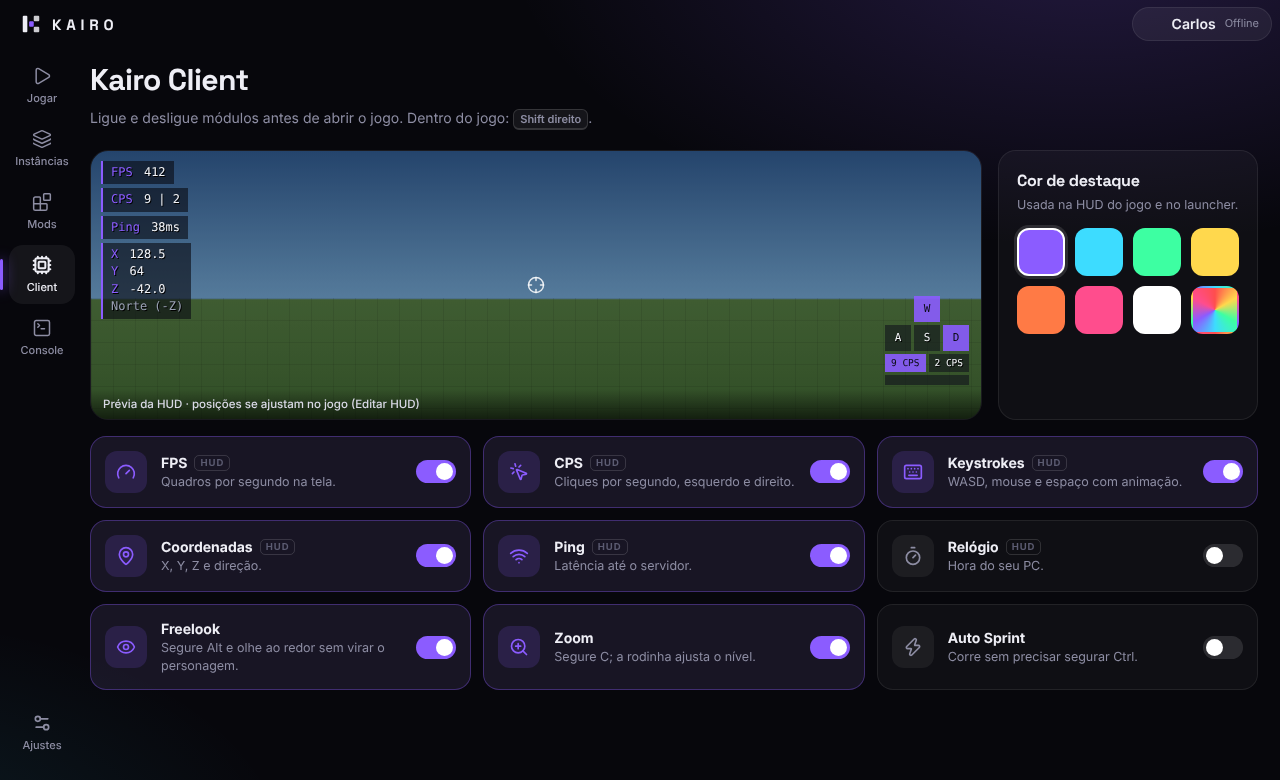
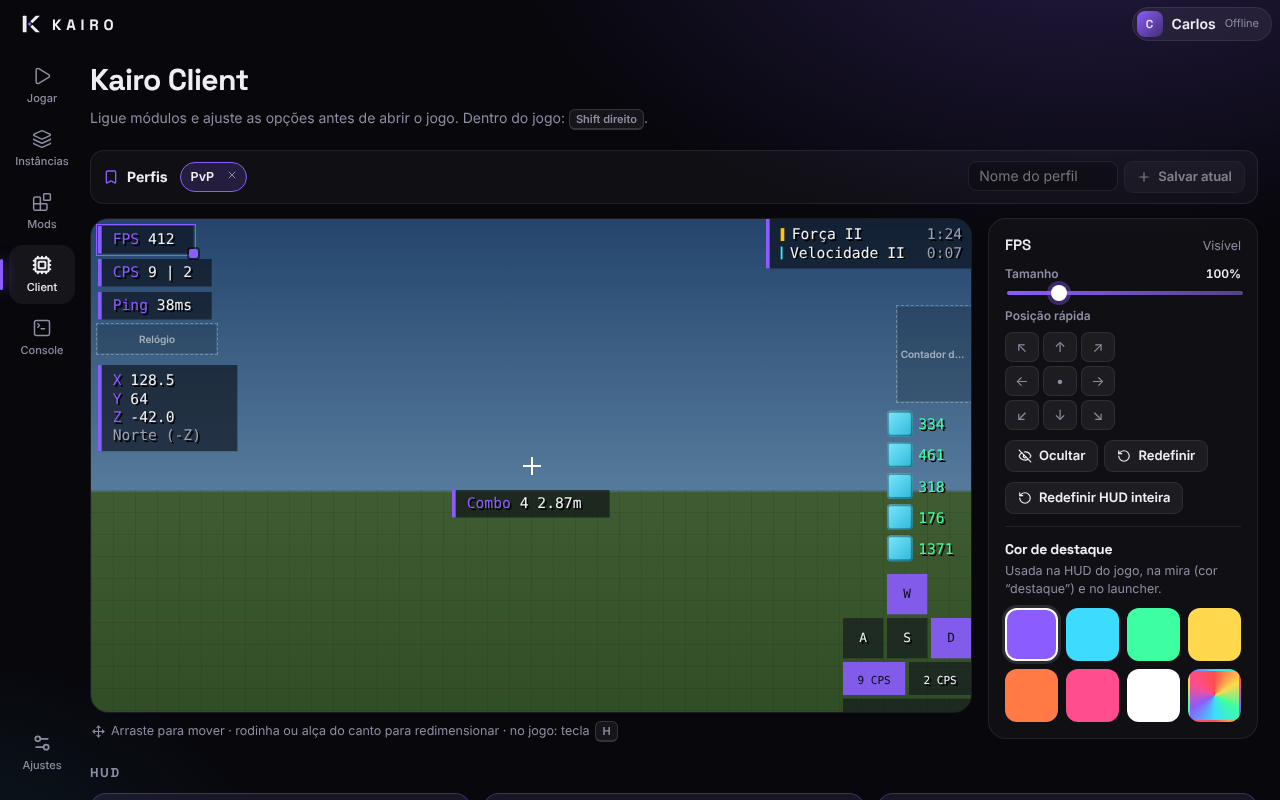
README para usuários + guia de desenvolvimento

diff --git a/launcher/src/components/HudLayoutEditor.tsx b/launcher/src/components/HudLayoutEditor.tsx
@@ -62,7 +62,7 @@ function specs(opt: (id: string, key: string) => OptionValue | undefined): Recor
       ),
     },
     armor: {
-      w: armorH ? armorN * 48 : 46, h: armorH ? 17 : armorN * 17, def: { rx: 0, ry: 0.62 },
+      w: armorH ? armorN * 48 : 46, h: armorH ? 17 : armorN * 17, def: { rx: 1, ry: 0.56 },
       render: () => (
         <div className={`hl-armor ${armorH ? "row" : ""}`}>
           {[92, 78, 64, 41, 88].slice(0, armorN).map((p, i) => (
@@ -72,7 +72,7 @@ function specs(opt: (id: string, key: string) => OptionValue | undefined): Recor
       ),
     },
     items: {
-      w: 40, h: 51, def: { rx: 1, ry: 0.45 },
+      w: 40, h: 51, def: { rx: 1, ry: 0.22 },
       render: () => (
         <div className="hl-armor items">
           {[["#3f9e8a", 16], ["#f2c94c", 12], ["#e0557a", 7]].map(([c, n], i) => (

diff --git a/mod/src/main/java/gg/kairo/module/impl/ItemCounterModule.java b/mod/src/main/java/gg/kairo/module/impl/ItemCounterModule.java
@@ -26,7 +26,7 @@ public final class ItemCounterModule extends HudModule {
 
 	public ItemCounterModule() {
 		super("items", "Contador de itens", "Pérolas, maçãs douradas, poções, flechas e totens no inventário.", false, 4, 310);
-		defaultAnchor(1.0, 0.45);
+		defaultAnchor(1.0, 0.22);
 	}
 
 	private record Entry(ItemStack icon, int count) {}

diff --git a/mod/src/main/java/gg/kairo/module/impl/ArmorModule.java b/mod/src/main/java/gg/kairo/module/impl/ArmorModule.java
@@ -27,7 +27,7 @@ public final class ArmorModule extends HudModule {
 
 	public ArmorModule() {
 		super("armor", "Armadura", "Peças vestidas e item na mão com a durabilidade.", true, 4, 210);
-		defaultAnchor(0.0, 0.62);
+		defaultAnchor(1.0, 0.56);
 	}
 
 	private List<ItemStack> stacks(Minecraft mc) {

diff --git a/README.md b/README.md
@@ -1,153 +1,99 @@
 <p align="center"><img src="branding/kairo-logo.png" alt="Kairo PvP Client" width="420"></p>
 
-# Kairo
+<p align="center">
+  <b>Launcher de Minecraft com client próprio, focado em PvP.</b><br>
+  Rápido, bonito e sem complicação — instala o jogo, o Java e os mods sozinho.
+</p>
 
-Launcher de Minecraft com client próprio, focado em PvP.
+<p align="center">
+  <a href="https://github.com/CarlosBR177/Kairo-Launcher/releases/latest"><b>⬇ Baixar para Windows</b></a>
+</p>
 
-![Tela inicial](docs/inicio.png)
+![Tela inicial do Kairo](docs/inicio.png)
 
-São duas partes:
+## O que tem
 
-| Pasta | O que é | Tecnologia |
-|---|---|---|
-| `launcher/` | O launcher (interface, contas, instalação, mods, instalador .exe) | Tauri 2 + Rust + React |
-| `launcher/core/` | Núcleo do launcher, sem interface (testável sozinho) | Rust |
-| `mod/` | **Kairo Client**: mod com HUD, CPS, FPS, keystrokes, freelook, zoom… | Fabric · Stonecutter · MC 1.21.1–26.3 |
-| `branding/` | Logo, símbolo e ícone em SVG/PNG | — |
+**No launcher**
+- **Instala tudo sozinho:** Minecraft, Fabric e o Java certo para cada versão. É só criar uma instância e clicar em Jogar.
+- **Instâncias separadas:** cada uma com seus próprios mods, mundos e configurações.
+- **Mods do Modrinth** direto no launcher: busque, instale (com dependências), ligue e desligue.
+- **Pacote de desempenho** automático (Sodium, Lithium, FerriteCore e outros) para ganhar FPS sem configurar nada.
+- **Servidores favoritos** na tela inicial, com ping ao vivo e jogadores online. Um clique e você já entra.
+- **Mostra no Discord** o que você está jogando.
+- **Se atualiza sozinho** quando sai versão nova.
 
-## O que já faz
+**No jogo (Kairo Client)**
+- **HUD:** FPS, CPS, keystrokes, coordenadas, ping, relógio, efeitos de poção, armadura com durabilidade, contador de itens (pérolas, maçãs, poções, flechas, totens) e combo/distância do último hit.
+- **Monte sua HUD do seu jeito:** arraste cada elemento para onde quiser e mude o tamanho — no jogo (tecla **H**) ou no launcher.
+- **Mira personalizada:** estilo, tamanho, espaço, espessura e cor.
+- **Visual:** fogo mais baixo, tamanho e posição do item na mão (escudo mais baixo), brilho máximo, partículas de hit.
+- **Movimento e câmera:** freelook, zoom suave, auto sprint e toggle sneak.
+- **Perfis:** salve combinações de módulos (PvP, Survival, Gravação…) e troque com um clique.
+- **Regras por servidor:** desligue sozinho os módulos que um servidor não permite.
 
-**Launcher**
-- Login **Microsoft** (código de dispositivo, sem ver a senha) e contas **offline**.
-- Instâncias separadas (mods, mundos e configs próprios), com capas geradas.
-- Instala sozinho: Minecraft, Fabric, bibliotecas, assets **e o Java certo** (o mesmo runtime do launcher oficial).
-- Mods pelo **Modrinth** (busca, instala com dependências, liga/desliga, remove).
-- **Pacote de desempenho** automático: Sodium, Lithium, FerriteCore, ImmediatelyFast, EntityCulling, ModernFix.
-- Flags de JVM ajustadas para cliente (G1 otimizado ou ZGC; compact object headers no Java 25).
-- Aba **Client**: liga/desliga os módulos, ajusta as opções de cada um (editor de mira com prévia), **monta o layout da HUD arrastando e redimensionando na prévia** e troca a cor **antes** de abrir o jogo.
-- **Perfis de HUD** (PvP, Survival, Gravação…): salve quais módulos ficam ligados e troque com um clique, no launcher ou no jogo.
-- **Regras por servidor**: escolha módulos que são desligados sozinhos em servidores que os proíbem (e voltam ao sair).
-- **Servidores favoritos** na tela inicial com ping ao vivo, jogadores online, MOTD e ícone (resolve SRV como o jogo).
-- **Discord Rich Presence**: instância, versão e servidor no seu perfil.
-- **Atualização automática** pelas Releases do GitHub (assinada).
-- Quick Play (entrar direto num servidor), console com filtro de erros, tempo jogado.
-- Instalador NSIS em português, por usuário (não pede administrador).
+![Aba Client: editor da HUD](docs/client.png)
 
-**Kairo Client (mod)**
-- HUD: FPS, CPS (esq. | dir.), Keystrokes animado, Coordenadas + direção, Ping, Relógio.
-- PvP: **Combo e distância do último hit** (só mostra), **Efeitos de poção** com tempo, **Armadura** com durabilidade, **Contador de itens** (pérolas, maçãs, poções, flechas, totens), **Mira personalizada**, **Partículas de hit**.
-- Visual: **Fogo baixo**, **Item na mão** (tamanho/posição, escudo baixo), **Brilho máximo**.
-- Freelook (segure **Alt**), Zoom suave (segure **C**, rodinha ajusta), Auto Sprint, **Toggle Sneak**.
-- Menu no jogo: **Shift direito** (com troca de perfil).
-- **Editor de HUD** (tecla **H**, ou "Editar HUD" no menu): arraste para mover, rodinha ou alça do canto para mudar o tamanho (50%–300%), posições rápidas (cantos, bordas, centro), ocultar/mostrar e redefinir. As posições são relativas à tela, então o layout fica igual em qualquer resolução.
-- Nada que dê vantagem injusta: sem reach, autoclicker, hitbox ou ver através de blocos.
-- Config em `config/kairo.json` — o launcher lê e grava o mesmo arquivo.
+> **Jogo limpo:** o Kairo não tem nada que dê vantagem injusta — sem reach, autoclicker, hitbox ou ver através de blocos. Mesmo assim, cada servidor tem suas regras; na dúvida, confira antes de jogar.
 
-![Aba Client](docs/client.png)
+## Instalar
 
-## Gerar o instalador (jeito fácil: GitHub)
+1. Baixe o **`Kairo Launcher_x.y.z_x64-setup.exe`** na página de [Releases](https://github.com/CarlosBR177/Kairo-Launcher/releases/latest).
+2. Abra o instalador. Ele não pede senha de administrador.
+3. Se o Windows mostrar **"O Windows protegeu o computador"**, clique em **Mais informações → Executar assim mesmo**. Isso aparece porque o instalador ainda não tem assinatura digital paga; não é vírus.
+4. Abra o **Kairo Launcher** pelo menu Iniciar.
 
-1. Suba esta pasta para um repositório no GitHub.
-2. *Actions* → **Build Kairo** → *Run workflow*.
-3. Baixe o artefato **Kairo-Launcher-Windows**: tem o `Kairo Launcher_0.1.0_x64-setup.exe`.
+Requisitos: Windows 10 ou 11 (64 bits). Não precisa instalar Java — o launcher baixa sozinho.
 
-## Gerar no seu PC (Windows)
+## Primeiros passos
 
-Pré-requisitos: [Rust](https://rustup.rs), [Node 22+](https://nodejs.org), [JDK 25](https://adoptium.net) (o Gradle baixa o JDK 21 das 1.21.x sozinho) e o *Build Tools do Visual Studio* (C++). O WebView2 já vem no Windows 10/11.
+1. **Entre na sua conta:** clique em **Entrar** no canto superior direito.
+   - **Conta Microsoft** (a do Minecraft original): o launcher mostra um código; abra o link, digite o código e faça login no site da Microsoft. O launcher nunca vê sua senha.
+   - **Conta offline:** só um nome, para jogar singleplayer ou em servidores que aceitam contas não originais.
+2. **Crie uma instância:** escolha a versão do Minecraft e deixe **Fabric** marcado para usar o Kairo Client.
+3. Clique em **Jogar**. Na primeira vez ele baixa o jogo e o Java, o que leva alguns minutos.
 
-```powershell
-# 1) mod (gera um jar por versão do Minecraft)
-cd mod
-.\gradlew.bat build
-copy versions\*\build\libs\kairo-client-*.jar ..\launcher\src-tauri\resources\
-del ..\launcher\src-tauri\resources\*-sources.jar
+## Atalhos no jogo
 
-# 2) launcher
-cd ..\launcher
-npm install
-npm run tauri dev          # abre em modo desenvolvimento
-npm run tauri build        # gera o .exe em src-tauri\target\release\bundle\nsis\
-```
+| Tecla | O que faz |
+|---|---|
+| **Shift direito** | Menu do Kairo (ligar/desligar módulos, trocar perfil) |
+| **H** | Editor de HUD (mover e redimensionar) |
+| **Alt** (segurar) | Freelook — olhar ao redor sem virar o personagem |
+| **C** (segurar) | Zoom — a rodinha do mouse ajusta |
 
-Só a interface, no navegador (dados de exemplo, sem Rust): `npm run dev` → http://localhost:1420
+Todas as teclas podem ser trocadas em **Opções → Controles → Kairo Client**.
 
-Testar o mod direto, sem o launcher: `cd mod && .\gradlew.bat :26.3:runClient` (ou `:1.21.8:runClient` etc.).
+**Editor de HUD:** clique num elemento para selecionar, arraste para mover e use a rodinha (ou a alça no canto) para mudar o tamanho. A barra embaixo tem posições rápidas (cantos, centro), ocultar e redefinir.
 
-## Várias versões do Minecraft (Stonecutter)
+## Versões do Minecraft
 
-O mod usa [Stonecutter](https://stonecutter.kikugie.dev/): um código só, e um jar por versão.
+O launcher roda qualquer versão do Minecraft. O **Kairo Client** (HUD e módulos) funciona em:
 
-| Jar | Carrega em | Loom | Java |
-|---|---|---|---|
-| `kairo-client-0.1.0+1.21.1.jar` | 1.21 – 1.21.1 | remap (mapeamentos Mojang) | 21 |
-| `kairo-client-0.1.0+1.21.4.jar` | 1.21.4 | remap | 21 |
-| `kairo-client-0.1.0+1.21.8.jar` | 1.21.6 – 1.21.8 | remap | 21 |
-| `kairo-client-0.1.0+1.21.11.jar` | 1.21.11 | remap | 21 |
-| `kairo-client-0.1.0+26.3.jar` | 26.3.x | sem ofuscação | 25 |
+**1.21.1 · 1.21.4 · 1.21.6–1.21.8 · 1.21.11 · 26.3**
 
-- O código-fonte fica escrito para a **26.3** (versão "ativa"). Trechos que mudam entre versões usam comentários do Stonecutter:
-  ```java
-  //? if >=26.1 {
-  raw.text(font, s, x, y, color, shadow);
-  //?} else {
-  /*raw.drawString(font, s, x, y, color, shadow);
-  *///?}
-  ```
-- Para editar/rodar outra versão na IDE, use a tarefa Gradle **Set active project to 1.21.8** (e volte para 26.3 antes de commitar).
-- As diferenças ficam concentradas em `compat/Gfx.java` (desenho), `compat/Compat.java` (telas, teclas), `KairoClient` (registro de HUD e teclas), nas duas telas e nos mixins de zoom/mira/rolagem.
-- Versões específicas (Fabric API, faixa de versões do jogo) ficam em `mod/versions/<versão>/gradle.properties`.
-- O launcher escolhe o jar pela versão da instância (`kairo_jar_for` em `lib.rs`). Para adicionar uma versão: inclua em `settings.gradle.kts`, crie `versions/<versão>/gradle.properties` e acrescente a linha em `kairo_jar_for` e em `kairoSupports` (`launcher/src/modules.ts`).
+Em outras versões o jogo abre normalmente, só sem os módulos do Kairo.
 
-## Login Microsoft (Client ID do Azure)
+## Dúvidas
 
-Sem isso o launcher funciona só com contas offline. É gratuito, mas a Mojang precisa aprovar:
+**Posso usar meus próprios mods?**
+Sim. Na aba **Mods**, busque no Modrinth ou coloque arquivos `.jar` na pasta da instância (botão de pasta na tela inicial).
 
-1. [portal.azure.com](https://portal.azure.com) → **App registrations** → *New registration*.
-   - Tipo de conta: **Personal Microsoft accounts only**.
-2. Em **Authentication** → *Advanced settings* → **Allow public client flows = Yes** (habilita o device code).
-3. Copie o **Application (client) ID**.
-4. Peça acesso à API do Minecraft no formulário da Mojang: https://aka.ms/mce-reviewappid
-   (até aprovarem, o login termina com a mensagem “Client ID ainda não foi aprovado”).
-5. Compile com a variável: `set KAIRO_MS_CLIENT_ID=seu-client-id` antes do `npm run tauri build`
-   — ou crie o secret `KAIRO_MS_CLIENT_ID` no GitHub para o workflow.
+**Minha conta offline não entra no servidor.**
+Contas offline só entram em servidores com `online-mode=false`. Para servidores normais, use sua conta Microsoft.
 
-O Client ID não é segredo (vai dentro do app), mas é seu: não reutilize o de outros launchers.
+**Onde ficam meus mundos e configurações?**
+Em `%APPDATA%\KairoLauncher\instances\<nome-da-instância>`. O botão de pasta na tela inicial abre direto ali.
 
-## Discord Rich Presence
+**Como desinstalar?**
+Em **Configurações → Aplicativos** do Windows. Seus mundos ficam em `%APPDATA%\KairoLauncher` até você apagar a pasta.
 
-1. [discord.com/developers/applications](https://discord.com/developers/applications) → *New Application* → nome **Kairo**.
-2. Copie o **Application ID**.
-3. Em *Rich Presence → Art Assets*, envie `branding/kairo-icon-1024.png` com o nome **kairo**.
-4. Compile com `set KAIRO_DISCORD_APP_ID=seu-id` — ou crie o secret `KAIRO_DISCORD_APP_ID` no GitHub.
+**O jogo fechou com erro.**
+Abra a aba **Console** do launcher, copie as linhas em vermelho e [abra uma issue](https://github.com/CarlosBR177/Kairo-Launcher/issues) com elas.
 
-Sem o ID, a opção aparece desativada em Ajustes e nada é enviado ao Discord.
+## Aviso
 
-## Atualização automática
+O Kairo não é um produto oficial do Minecraft e não tem ligação com a Mojang ou a Microsoft. O jogo é baixado direto dos servidores oficiais da Mojang e nunca é distribuído modificado, respeitando o [EULA do Minecraft](https://www.minecraft.net/eula). Os mods do pacote de desempenho vêm do Modrinth, de seus próprios autores.
 
-O launcher procura `latest.json` na última Release do repositório. Para publicar uma versão:
+---
 
-1. No GitHub, crie os secrets `TAURI_SIGNING_PRIVATE_KEY` (conteúdo de `.secrets/kairo-updater.key`) e `TAURI_SIGNING_PRIVATE_KEY_PASSWORD` (vazio).
-2. Suba a versão em `launcher/src-tauri/tauri.conf.json` e `launcher/package.json` (ex.: `0.2.0`).
-3. `git tag v0.2.0 && git push --tags` → o workflow publica a Release com o instalador assinado.
-
-O workflow troca `SEU_USUARIO/SEU_REPO` no `tauri.conf.json` pelo nome do repositório automaticamente. A chave pública já está no `tauri.conf.json`; **a privada (`.secrets/`) nunca deve ir para o Git** — sem ela não dá para publicar atualizações.
-
-## Onde ficam os dados
-
-`%APPDATA%\KairoLauncher\` → `instances\<id>\` (mods, saves, config), `versions\`, `libraries\`, `assets\`, `runtime\` (Java), `settings.json`, `instances.json`, `accounts.json`.
-
-> `accounts.json` guarda os tokens de sessão em texto. Para uso pessoal tudo bem; para distribuir, migre para o Cofre de Credenciais do Windows (crate `keyring`).
-
-## Limitações conhecidas
-
-- O Kairo Client existe para 1.21.1, 1.21.4, 1.21.6–1.21.8, 1.21.11 e 26.3. Outras versões rodam no launcher, mas sem o mod do Kairo.
-- Contas offline só entram em servidores com `online-mode=false`.
-- O mod ainda não foi compilado nem testado no jogo em nenhuma versão — o primeiro `gradlew build` pode apontar ajustes pequenos de nomes. Os nomes de desenho estão todos em `compat/Gfx.java`, então um nome errado ali se corrige num lugar só. Nas 1.21.x o zoom e a mira usam `require = 0`: se o alvo mudar, eles param de funcionar sem crashar.
-- Os mixins de **Fogo baixo** e **Item na mão** usam `require = 0`: se o nome do método mudar numa versão do jogo, o efeito não aparece, mas o jogo abre normalmente.
-- Opções finas dos módulos (estilo da mira, tamanho do item…) ficam na aba Client do launcher; no jogo, o menu liga/desliga e troca de perfil.
-- Capas, marca do Kairo no tab e nametag própria precisam de um servidor do Kairo e ficaram para depois.
-- As capas e o logo são originais; nenhuma marca da Mojang/Microsoft é usada.
-
-## Licença e EULA
-
-O launcher baixa o jogo direto dos servidores da Mojang e nunca distribui o Minecraft modificado, o que respeita o EULA. Os mods do pacote de desempenho são baixados do Modrinth no momento da instalação.
+Quer compilar o projeto ou contribuir? Veja o [guia de desenvolvimento](docs/DESENVOLVIMENTO.md).

diff --git a/docs/DESENVOLVIMENTO.md b/docs/DESENVOLVIMENTO.md
@@ -1,0 +1,115 @@
+# Kairo — guia de desenvolvimento
+
+Como compilar, publicar versões e configurar as integrações. Para usar o launcher, veja o [README](../README.md).
+
+O projeto tem duas partes:
+
+| Pasta | O que é | Tecnologia |
+|---|---|---|
+| `launcher/` | O launcher (interface, contas, instalação, mods, instalador .exe) | Tauri 2 + Rust + React |
+| `launcher/core/` | Núcleo do launcher, sem interface (testável sozinho) | Rust |
+| `mod/` | **Kairo Client**: mod com HUD, CPS, FPS, keystrokes, freelook, zoom… | Fabric · Stonecutter · MC 1.21.1–26.3 |
+| `branding/` | Logo, símbolo e ícone em SVG/PNG | — |
+
+## Gerar o instalador (jeito fácil: GitHub)
+
+1. Suba esta pasta para um repositório no GitHub.
+2. *Actions* → **Build Kairo** → *Run workflow*.
+3. Baixe o artefato **Kairo-Launcher-Windows**: tem o `Kairo Launcher_0.1.0_x64-setup.exe`.
+
+## Gerar no seu PC (Windows)
+
+Pré-requisitos: [Rust](https://rustup.rs), [Node 22+](https://nodejs.org), [JDK 25](https://adoptium.net) (o Gradle baixa o JDK 21 das 1.21.x sozinho) e o *Build Tools do Visual Studio* (C++). O WebView2 já vem no Windows 10/11.
+
+```powershell
+# 1) mod (gera um jar por versão do Minecraft)
+cd mod
+.\gradlew.bat build
+copy versions\*\build\libs\kairo-client-*.jar ..\launcher\src-tauri\resources\
+del ..\launcher\src-tauri\resources\*-sources.jar
+
+# 2) launcher
+cd ..\launcher
+npm install
+npm run tauri dev          # abre em modo desenvolvimento
+npm run tauri build        # gera o .exe em src-tauri\target\release\bundle\nsis\
+```
+
+Só a interface, no navegador (dados de exemplo, sem Rust): `npm run dev` → http://localhost:1420
+
+Testar o mod direto, sem o launcher: `cd mod && .\gradlew.bat :26.3:runClient` (ou `:1.21.8:runClient` etc.).
+
+## Várias versões do Minecraft (Stonecutter)
+
+O mod usa [Stonecutter](https://stonecutter.kikugie.dev/): um código só, e um jar por versão.
+
+| Jar | Carrega em | Loom | Java |
+|---|---|---|---|
+| `kairo-client-0.1.0+1.21.1.jar` | 1.21 – 1.21.1 | remap (mapeamentos Mojang) | 21 |
+| `kairo-client-0.1.0+1.21.4.jar` | 1.21.4 | remap | 21 |
+| `kairo-client-0.1.0+1.21.8.jar` | 1.21.6 – 1.21.8 | remap | 21 |
+| `kairo-client-0.1.0+1.21.11.jar` | 1.21.11 | remap | 21 |
+| `kairo-client-0.1.0+26.3.jar` | 26.3.x | sem ofuscação | 25 |
+
+- O código-fonte fica escrito para a **26.3** (versão "ativa"). Trechos que mudam entre versões usam comentários do Stonecutter:
+  ```java
+  //? if >=26.1 {
+  raw.text(font, s, x, y, color, shadow);
+  //?} else {
+  /*raw.drawString(font, s, x, y, color, shadow);
+  *///?}
+  ```
+- Para editar/rodar outra versão na IDE, use a tarefa Gradle **Set active project to 1.21.8** (e volte para 26.3 antes de commitar).
+- As diferenças ficam concentradas em `compat/Gfx.java` (desenho), `compat/Compat.java` (telas, teclas), `KairoClient` (registro de HUD e teclas), nas duas telas e nos mixins de zoom/mira/rolagem.
+- Versões específicas (Fabric API, faixa de versões do jogo) ficam em `mod/versions/<versão>/gradle.properties`.
+- O launcher escolhe o jar pela versão da instância (`kairo_jar_for` em `lib.rs`). Para adicionar uma versão: inclua em `settings.gradle.kts`, crie `versions/<versão>/gradle.properties` e acrescente a linha em `kairo_jar_for` e em `kairoSupports` (`launcher/src/modules.ts`).
+
+## Login Microsoft (Client ID do Azure)
+
+Sem isso o launcher funciona só com contas offline. É gratuito, mas a Mojang precisa aprovar:
+
+1. [portal.azure.com](https://portal.azure.com) → **App registrations** → *New registration*.
+   - Tipo de conta: **Personal Microsoft accounts only**.
+2. Em **Authentication** → *Advanced settings* → **Allow public client flows = Yes** (habilita o device code).
+3. Copie o **Application (client) ID**.
+4. Peça acesso à API do Minecraft no formulário da Mojang: https://aka.ms/mce-reviewappid
+   (até aprovarem, o login termina com a mensagem “Client ID ainda não foi aprovado”).
+5. Compile com a variável: `set KAIRO_MS_CLIENT_ID=seu-client-id` antes do `npm run tauri build`
+   — ou crie o secret `KAIRO_MS_CLIENT_ID` no GitHub para o workflow.
+
+O Client ID não é segredo (vai dentro do app), mas é seu: não reutilize o de outros launchers.
+
+## Discord Rich Presence
+
+1. [discord.com/developers/applications](https://discord.com/developers/applications) → *New Application* → nome **Kairo**.
+2. Copie o **Application ID**.
+3. Em *Rich Presence → Art Assets*, envie `branding/kairo-icon-1024.png` com o nome **kairo**.
+4. Compile com `set KAIRO_DISCORD_APP_ID=seu-id` — ou crie o secret `KAIRO_DISCORD_APP_ID` no GitHub.
+
+Sem o ID, a opção aparece desativada em Ajustes e nada é enviado ao Discord.
+
+## Atualização automática
+
+O launcher procura `latest.json` na última Release do repositório. Para publicar uma versão:
+
+1. No GitHub, crie os secrets `TAURI_SIGNING_PRIVATE_KEY` (conteúdo de `.secrets/kairo-updater.key`) e `TAURI_SIGNING_PRIVATE_KEY_PASSWORD` (vazio).
+2. Suba a versão em `launcher/src-tauri/tauri.conf.json` e `launcher/package.json` (ex.: `0.2.0`).
+3. `git tag v0.2.0 && git push --tags` → o workflow publica a Release com o instalador assinado.
+
+O workflow troca `SEU_USUARIO/SEU_REPO` no `tauri.conf.json` pelo nome do repositório automaticamente. A chave pública já está no `tauri.conf.json`; **a privada (`.secrets/`) nunca deve ir para o Git** — sem ela não dá para publicar atualizações.
+
+## Onde ficam os dados
+
+`%APPDATA%\KairoLauncher\` → `instances\<id>\` (mods, saves, config), `versions\`, `libraries\`, `assets\`, `runtime\` (Java), `settings.json`, `instances.json`, `accounts.json`.
+
+> `accounts.json` guarda os tokens de sessão em texto. Para uso pessoal tudo bem; para distribuir, migre para o Cofre de Credenciais do Windows (crate `keyring`).
+
+## Limitações conhecidas
+
+- O Kairo Client existe para 1.21.1, 1.21.4, 1.21.6–1.21.8, 1.21.11 e 26.3. Outras versões rodam no launcher, mas sem o mod do Kairo.
+- Contas offline só entram em servidores com `online-mode=false`.
+- O mod ainda não foi compilado nem testado no jogo em nenhuma versão — o primeiro `gradlew build` pode apontar ajustes pequenos de nomes. Os nomes de desenho estão todos em `compat/Gfx.java`, então um nome errado ali se corrige num lugar só. Nas 1.21.x o zoom e a mira usam `require = 0`: se o alvo mudar, eles param de funcionar sem crashar.
+- Os mixins de **Fogo baixo** e **Item na mão** usam `require = 0`: se o nome do método mudar numa versão do jogo, o efeito não aparece, mas o jogo abre normalmente.
+- Opções finas dos módulos (estilo da mira, tamanho do item…) ficam na aba Client do launcher; no jogo, o menu liga/desliga e troca de perfil.
+- Capas, marca do Kairo no tab e nametag própria precisam de um servidor do Kairo e ficaram para depois.
+- As capas e o logo são originais; nenhuma marca da Mojang/Microsoft é usada.
